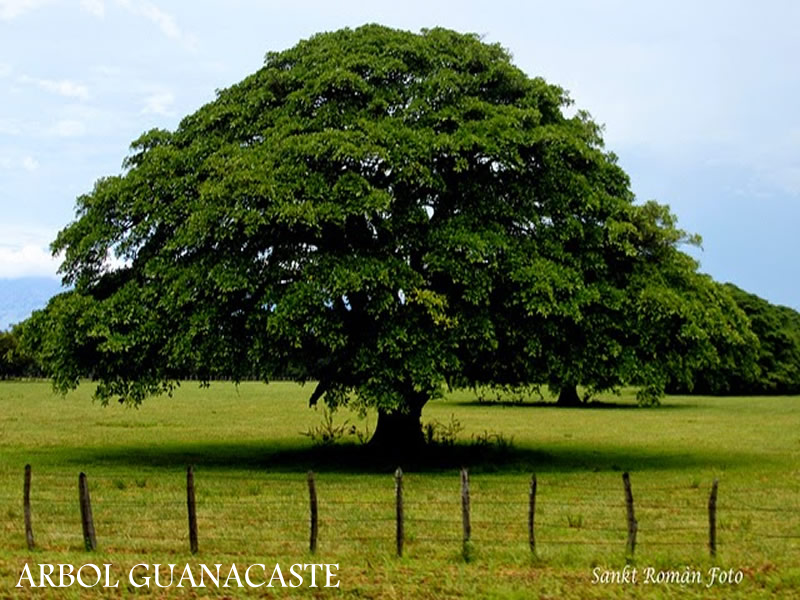
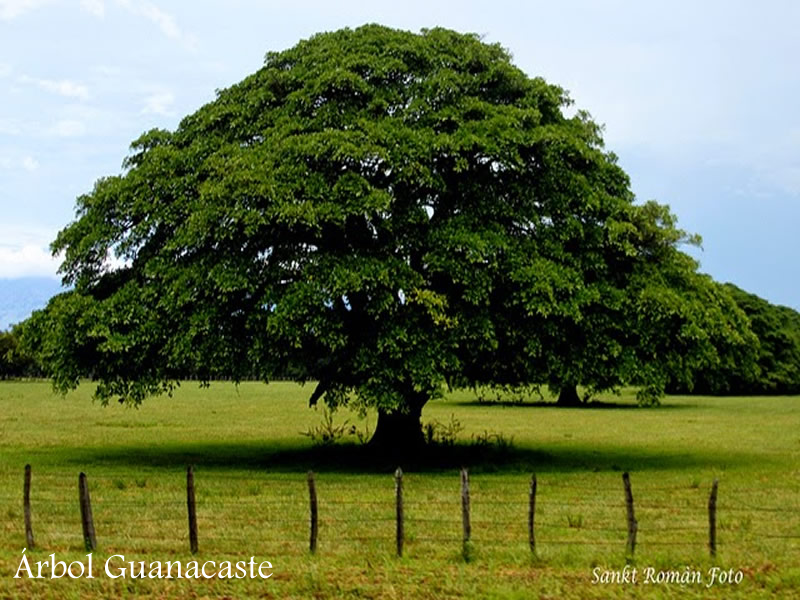
Cambios nombres imagenes a la vista del Cliente de arte y galeria

Changed region(s): [[0.0, 0.93, 0.4375, 0.99]]

diff --git a/arteygaleria.html b/arteygaleria.html
@@ -88,9 +88,9 @@
 											<figure>
 												<img src="img/arteygaleria/carrusel/escultura metálica Praga 2014_4crm.jpg" alt="retrato" alt="img07" 
 												data-darkbox="img/arteygaleria/carrusel/escultura metálica Praga 2014_4crm.jpg" 
-												data-darkbox-description="<b>escultura metálica Praga 2014<b>">
+												data-darkbox-description="<b>Escultura Metálica Praga 2014<b>">
 												<figcaption>
-													<h2 class="photostack-title">escultura metálica Praga 2014</h2>
+													<h2 class="photostack-title">Escultura Metálica Praga 2014</h2>
 												</figcaption>
 											</figure>
 											
@@ -105,33 +105,33 @@
 											<figure>
 												<img src="img/arteygaleria/carrusel/potencial Camilo_6crm.jpg" alt="retrato" alt="img10" 
 												data-darkbox="img/arteygaleria/carrusel/potencial Camilo_6crm.jpg"
-												data-darkbox-description="<b>potencial Camilo</b> ">
+												data-darkbox-description="<b>Potencial Camilo</b> ">
 												<figcaption>
-													<h2 class="photostack-title">potencial Camilo</h2>
+													<h2 class="photostack-title">Potencial Camilo</h2>
 												</figcaption>
 											</figure>
 											<figure>
 												<img src="img/arteygaleria/carrusel/espiritu del bosque 2016_8crm.jpg" alt="retrato" alt="img11" 
 												data-darkbox="img/arteygaleria/carrusel/espiritu del bosque 2016_8crm.jpg" 
-												data-darkbox-description="<b>espiritu del bosque 2016<b>">
+												data-darkbox-description="<b>Espíritu del bosque 2016<b>">
 												<figcaption>
-													<h2 class="photostack-title">espiritu del bosque 2016</h2>
+													<h2 class="photostack-title">Espíritu del bosque 2016</h2>
 												</figcaption>
 											</figure>
 											<figure>
 												<img src="img/arteygaleria/carrusel/musa 2016_9crm.jpg" alt="retrato" alt="img12"
 												data-darkbox="img/arteygaleria/carrusel/musa 2016_9crm.jpg" 
-												data-darkbox-description="<b>img/arteygaleria/carrusel/musa 2016<b>" >
+												data-darkbox-description="<b>Musa 2016<b>" >
 												<figcaption>
-													<h2 class="photostack-title">img/arteygaleria/carrusel/musa 2016</h2>
+													<h2 class="photostack-title">Musa 2016</h2>
 												</figcaption>
 											</figure>
 											<figure>
 												<img src="img/arteygaleria/carrusel/naranja violenta 2016_10crm.jpg" alt="retrato" alt="img13" 
 												data-darkbox="img/arteygaleria/carrusel/naranja violenta 2016_10crm.jpg"
-												data-darkbox-description="<b>naranja violenta 2016<b>">
+												data-darkbox-description="<b>Naranja violenta 2016<b>">
 												<figcaption>
-													<h2 class="photostack-title">naranja violenta 2016</h2>
+													<h2 class="photostack-title">Naranja violenta 2016</h2>
 												</figcaption>
 											</figure>
 											<figure>
@@ -145,9 +145,9 @@
 											<figure>
 												<img src="img/arteygaleria/carrusel/Festival Titeres Hidalgo, México 1992_12crm.jpg" alt="retrato" alt="img15"
 												data-darkbox="img/arteygaleria/carrusel/Festival Titeres Hidalgo, México 1992_12crm.jpg" 
-												data-darkbox-description="<b>Festival Titeres Hidalgo, México 1992<b>">
+												data-darkbox-description="<b>Festival Títeres Hidalgo, México 1992<b>">
 												<figcaption>
-													<h2 class="photostack-title">Festival Titeres Hidalgo, México 1992</h2>
+													<h2 class="photostack-title">Festival Títeres Hidalgo, México 1992</h2>
 												</figcaption>
 											</figure>
 											
@@ -549,32 +549,32 @@
 																		</div>
 
 																		<div class="item animated fadeInLeft" >
-																			<img src="img\arteygaleria\buhodeoro\buho oro 1_1m.jpg" class="carimg"
-																			data-darkbox="img\arteygaleria\buhodeoro\buho oro 1_1m.jpg"
+																			<img src="img\arteygaleria\buhodeoro\buho oro 1_1m.png" class="carimg"
+																			data-darkbox="img\arteygaleria\buhodeoro\buho oro 1_1m.png"
 																			data-darkbox-description="<b>Búho oro 1</b> ">
 																		</div>
 
 																		<div class="item animated fadeInLeft" >
-																			<img src="img\arteygaleria\buhodeoro\buho oro 2m.jpg" class="carimg"
-																			data-darkbox="img\arteygaleria\buhodeoro\buho oro 2m.jpg"
+																			<img src="img\arteygaleria\buhodeoro\buho oro 2m.png" class="carimg"
+																			data-darkbox="img\arteygaleria\buhodeoro\buho oro 2m.png"
 																			data-darkbox-description="<b>Búho oro 2</b> ">
 																		</div>
 
 																		<div class="item animated fadeInLeft" >
-																			<img src="img\arteygaleria\buhodeoro\buho oro 3m.jpg" class="carimg"
-																			data-darkbox="img\arteygaleria\buhodeoro\buho oro 3m.jpg"
+																			<img src="img\arteygaleria\buhodeoro\buho oro 3m.png" class="carimg"
+																			data-darkbox="img\arteygaleria\buhodeoro\buho oro 3m.png"
 																			data-darkbox-description="<b>Búho oro 3</b> ">
 																		</div>
 
 																		<div class="item animated fadeInLeft" >
-																			<img src="img\arteygaleria\buhodeoro\buho oro 4m.jpg" class="carimg"
-																			data-darkbox="img\arteygaleria\buhodeoro\buho oro 4m.jpg"
+																			<img src="img\arteygaleria\buhodeoro\buho oro 4m.png" class="carimg"
+																			data-darkbox="img\arteygaleria\buhodeoro\buho oro 4m.png"
 																			data-darkbox-description="<b>Búho oro 4</b> ">
 																		</div>
 
 																		<div class="item animated fadeInLeft" >
-																			<img src="img\arteygaleria\buhodeoro\buho oro 5m.jpg" class="carimg"
-																			data-darkbox="img\arteygaleria\buhodeoro\buho oro 5m.jpg"
+																			<img src="img\arteygaleria\buhodeoro\buho oro 5m.png" class="carimg"
+																			data-darkbox="img\arteygaleria\buhodeoro\buho oro 5m.png"
 																			data-darkbox-description="<b>Búho oro 5</b> ">
 																		</div>
 

diff --git a/index.html b/index.html
@@ -58,45 +58,45 @@
 							<!-- Wrapper for slides -->
 								<div class="carousel-inner" role="listbox">
 									<div class="item active animated fadeInLeft">
-										<img src="img/inicio/volcan rincon de la vieja costa rica_1crm.jpg" class="carimg"
+										<img src="img/inicio/volcan rincon de la vieja costa rica_1crm.png" class="carimg"
 										data-darkbox="img/inicio/volcan rincon de la vieja costa rica_1crm.jpg"
-										data-darkbox-description="<b>Volcán Rincón de la Vieja Costa Rica</b> ">
+										data-darkbox-description="<b>Volcán Rincón de la Vieja</b> ">
 									</div>
 
 									<div class="item animated fadeInLeft">
-										<img src="img/inicio/rafting rio pacuare costa rica_2crm.jpg" class="carimg"
+										<img src="img/inicio/rafting rio pacuare costa rica_2crm.png" class="carimg"
 										data-darkbox="img/inicio/rafting rio pacuare costa rica_2crm.jpg"
-										data-darkbox-description="<b>Rafting Río Pacuare Costa Rica</b> ">
+										data-darkbox-description="<b>Rafting Río Pacuare</b> ">
 									</div>
 
 									<div class="item animated fadeInLeft">
 										<img src="img/inicio/arbol de guanacaste_3crm.png" class="carimg"
-										data-darkbox="img/inicio/arbol de guanacaste_3crm.PNG"
+										data-darkbox="img/inicio/arbol de guanacaste_3crm.jpg"
 										data-darkbox-description="<b>Árbol de Guanacaste</b> ">
 									</div>
 
 									<div class="item animated fadeInLeft">
-										<img src="img/inicio/Chorotega_4crm.jpg" class="carimg"
+										<img src="img/inicio/Chorotega_4crm.png" class="carimg"
 										data-darkbox="img/inicio/Chorotega_4crm.jpg"
-										data-darkbox-description="<b>Chorotega</b> ">
+										data-darkbox-description="<b>Vasija Chorotega</b> ">
 									</div>
 
 									<div class="item animated fadeInLeft">
 										<img src="img/inicio/costa-rica-ocean-view_5crm.jpg" class="carimg"
 										data-darkbox="img/inicio/costa-rica-ocean-view_5crm.jpg"
-										data-darkbox-description="<b>Vista Costa Rica</b> ">
+										data-darkbox-description="<b>Vista Océano</b> ">
 									</div>
 
 									<div class="item animated fadeInLeft">
-										<img src="img/inicio/crestones cerro chirripo costa rica_6crm.jpg" class="carimg"
+										<img src="img/inicio/crestones cerro chirripo costa rica_6crm.png" class="carimg"
 										data-darkbox="img/inicio/crestones cerro chirripo costa rica_6crm.jpg"
-										data-darkbox-description="<b>Crestones Cerro Chirripó Costa Rica</b> ">
+										data-darkbox-description="<b>Crestones Cerro Chirripó</b> ">
 									</div>
 
 									<div class="item animated fadeInLeft">
-										<img src="img/inicio/dios sibu bribris costa rica_7crm.jpg" class="carimg"
+										<img src="img/inicio/dios sibu bribris costa rica_7crm.png" class="carimg"
 										data-darkbox="img/inicio/dios sibu bribris costa rica_7crm.jpg"
-										data-darkbox-description="<b>Dios Sibu Bribris Costa Rica</b> ">
+										data-darkbox-description="<b>Dios: Sibu Bribris Costa Rica</b> ">
 									</div>
 
 									<div class="item animated fadeInLeft">
@@ -182,6 +182,7 @@
 								<li>&nbsp;&nbsp;&nbsp;&nbsp;&nbsp;<a id="enlace" target="_blank\" href="documentos/Ser maje.pdf\" title="esto es un documento pdf\">"Ser maje". <span class="glyphicon glyphicon-paperclip"></span></a> </li>
 								<li>&nbsp;&nbsp;&nbsp;&nbsp;&nbsp;<a id="enlace" target="_blank\" href="documentos/Costarriquenismos.pdf\" title="esto es un documento pdf\">"Costarriqueñismos". <span class="glyphicon glyphicon-paperclip"></span></a> </li>
 								<li>&nbsp;&nbsp;&nbsp;&nbsp;&nbsp;<a id="enlace" target="_blank\" href="documentos/The All  August 10, 2012.pdf\" title="esto es un documento pdf\">"The All  August 10, 2012". <span class="glyphicon glyphicon-paperclip"></span></a> </li>
+								<li>&nbsp;&nbsp;&nbsp;&nbsp;&nbsp;<a id="enlace" target="_blank\" href="documentos/29 DE OCTUBRE DE 1821 FECHA DE LA INDEPENDENCIA DE COSTA RICA.pdf\" title="esto es un documento pdf\">"Independencia de Costa Rica". <span class="glyphicon glyphicon-paperclip"></span></a> </li>
 							</ul>
 						</font>						
 						</div>
